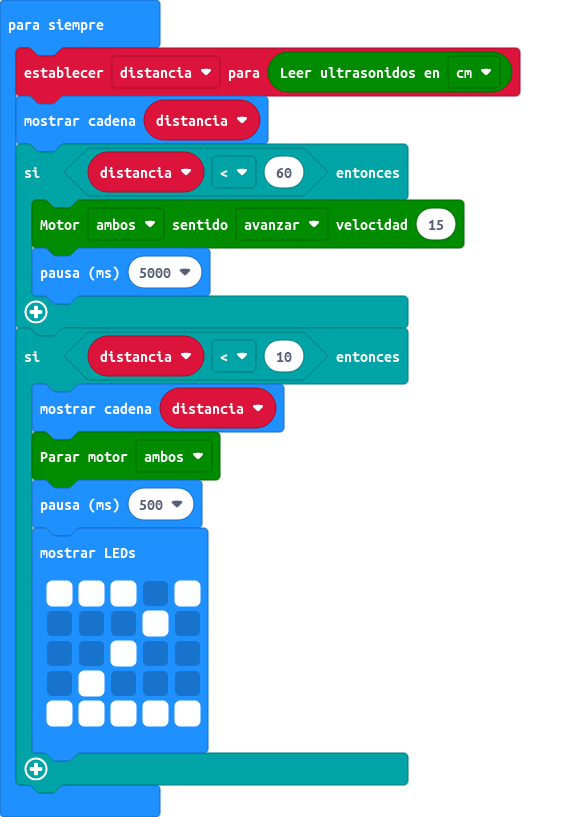
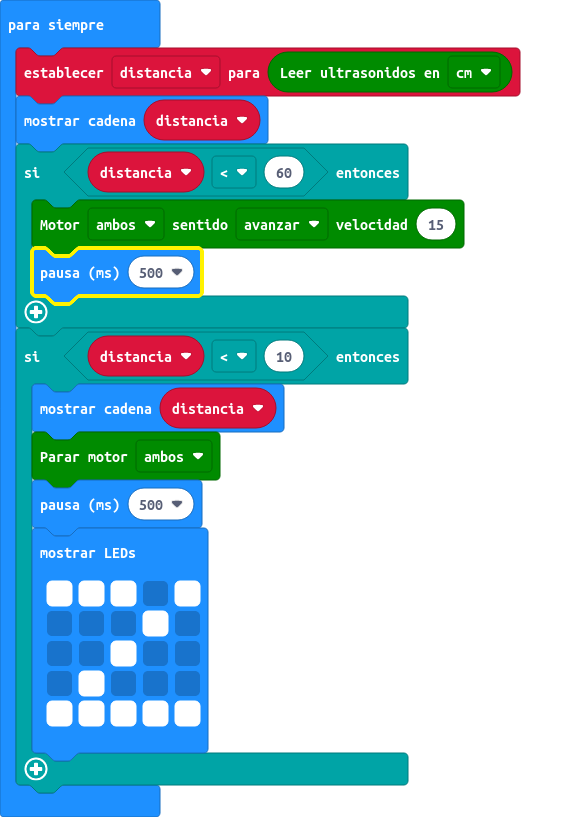
Actualizar main.blocks, main.ts

diff --git a/main.ts b/main.ts
@@ -4,7 +4,7 @@ basic.forever(function () {
     basic.showString("" + (distancia))
     if (distancia < 60) {
         maqueen.motorRun(maqueen.Motors.All, maqueen.Dir.CW, 15)
-        basic.pause(5000)
+        basic.pause(500)
     }
     if (distancia < 10) {
         basic.showString("" + (distancia))
